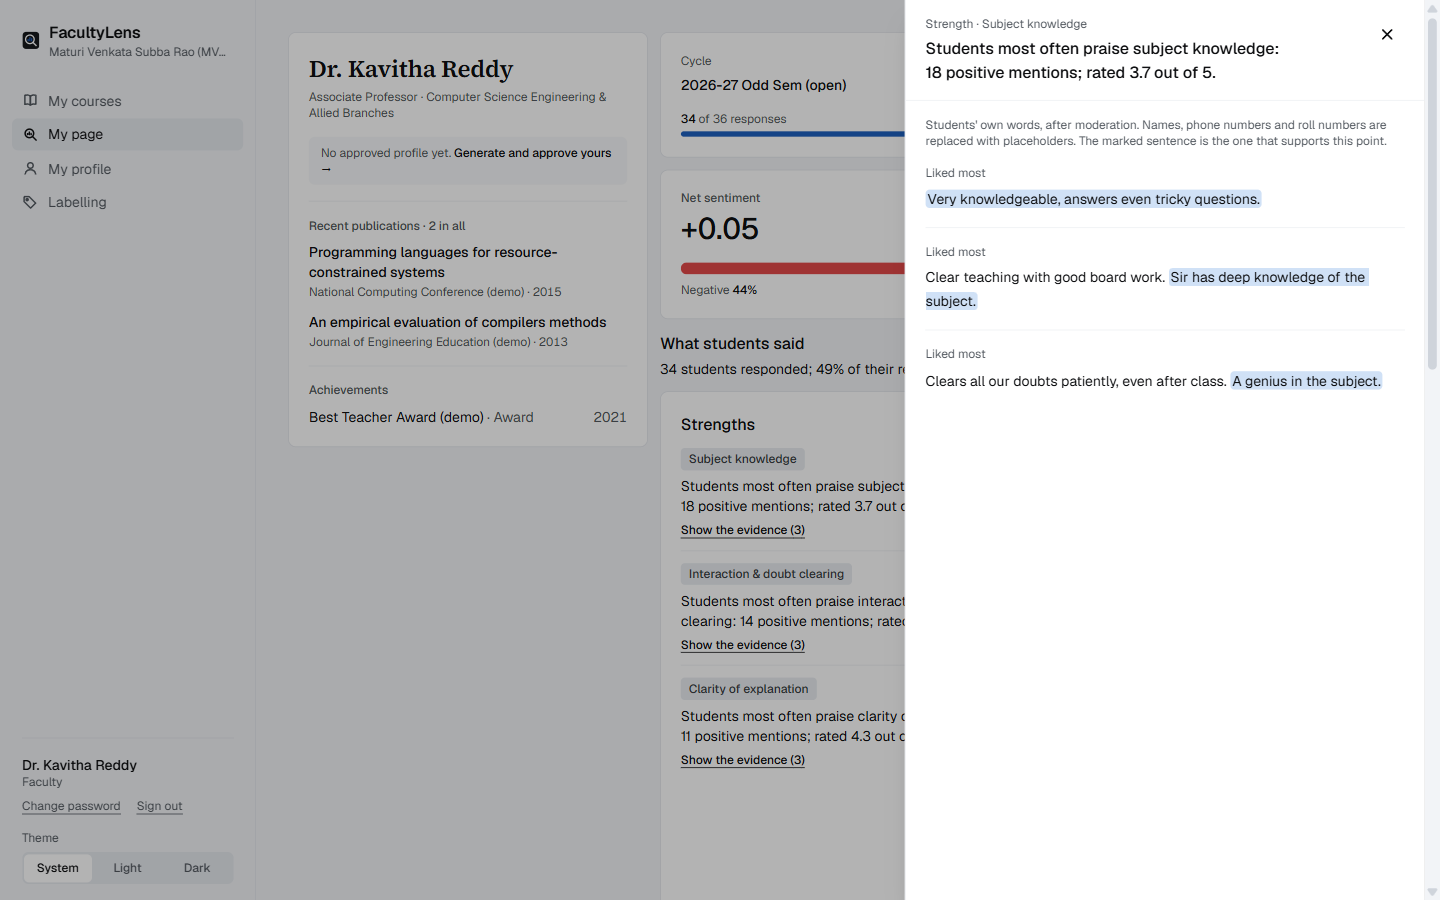
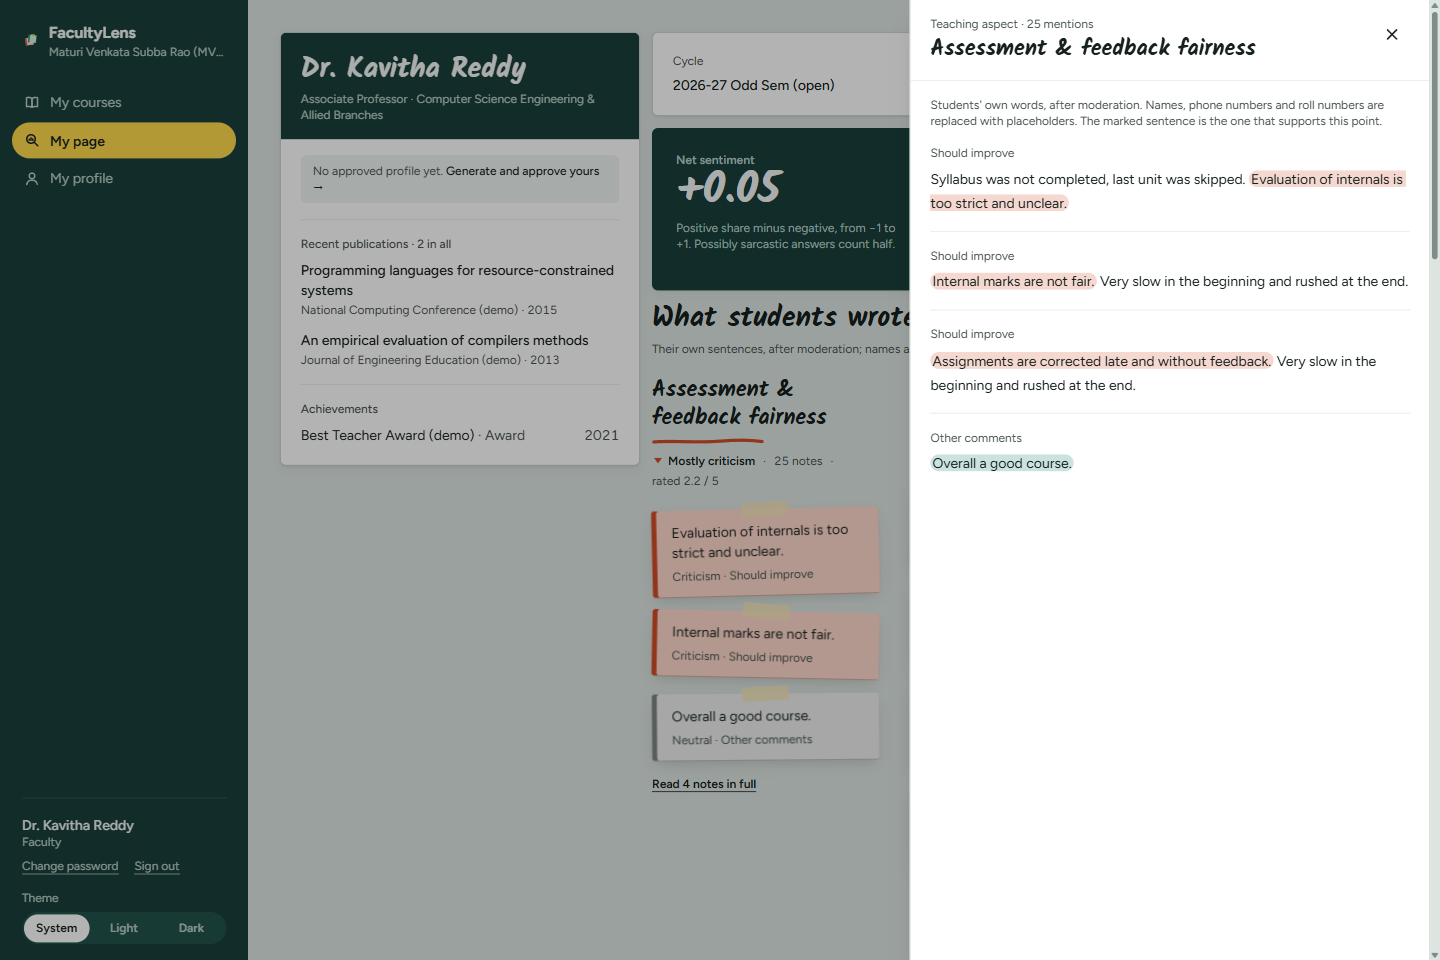
Redesign 4: DESIGN.md rewritten for the Affinity Wall, rail spans the page without a gradient, drawer highlights take each sentence's own tone, screenshots retaken (plus the IQAC home)

diff --git a/frontend/src/components/EvidenceDrawer.jsx b/frontend/src/components/EvidenceDrawer.jsx
@@ -88,7 +88,7 @@ export function EvidenceDrawer({ facultyId, request, onClose }) {
           <div className="flex items-start justify-between gap-4 border-b border-rule px-[var(--card-pad)] py-4">
             <div className="flex min-w-0 flex-col gap-1">
               <span className="text-small text-muted">{request.kicker}</span>
-              <h2 id="evidence-title" className="m-0 text-section font-medium">
+              <h2 id="evidence-title" className="m-0 font-marker text-[1.375rem] leading-7">
                 {request.title}
               </h2>
             </div>
@@ -128,7 +128,11 @@ export function EvidenceDrawer({ facultyId, request, onClose }) {
             ) : (
               <ul className="m-0 list-none p-0">
                 {state.items.map((item) => (
-                  <Answer key={item.id} item={item} tone={request.tone} />
+                  <Answer
+                    key={item.id}
+                    item={item}
+                    tone={request.toneFromItem ? item.sentiment : request.tone}
+                  />
                 ))}
               </ul>
             )}

diff --git a/frontend/src/components/AppShell.jsx b/frontend/src/components/AppShell.jsx
@@ -222,16 +222,18 @@ export function AppShell() {
       </a>
 
       {/* Desktop rail: the deep board beside the wall. */}
-      <aside className="sticky top-0 hidden h-dvh flex-col bg-board px-3 pt-5 pb-4 text-on-board lg:flex">
-        <div className="px-2.5 pb-6">
-          <Brand institution={institution} />
-        </div>
-        <nav aria-label="Main">
-          <NavItems items={nav} badges={badges} />
-        </nav>
-        <div className="mt-auto flex flex-col gap-4 px-2.5">
-          <Account />
-          <ThemeSwitch onBoard />
+      <aside className="hidden bg-board text-on-board lg:block">
+        <div className="sticky top-0 flex h-dvh flex-col px-3 pt-5 pb-4">
+          <div className="px-2.5 pb-6">
+            <Brand institution={institution} />
+          </div>
+          <nav aria-label="Main">
+            <NavItems items={nav} badges={badges} />
+          </nav>
+          <div className="mt-auto flex flex-col gap-4 px-2.5">
+            <Account />
+            <ThemeSwitch onBoard />
+          </div>
         </div>
       </aside>
 

diff --git a/frontend/src/pages/faculty/Wall.jsx b/frontend/src/pages/faculty/Wall.jsx
@@ -257,6 +257,7 @@ export function Wall({ facultyId, insights, onEvidence }) {
                 onEvidence({
                   ids: allIds,
                   tone,
+                  toneFromItem: true,
                   kicker: `Teaching aspect · ${a.mentions} mentions`,
                   title: a.label,
                 })

diff --git a/docs/DESIGN.md b/docs/DESIGN.md
@@ -1,81 +1,89 @@
 # FacultyLens design system
 
-Settled in Phase 0. Every later page reuses it. Tokens are in `frontend/src/styles/tokens.css` (raw values per theme) and mapped to Tailwind utilities in `frontend/src/styles/index.css` (`@theme inline`). Change values there, never inline in components.
+Redesigned on 2026-10-21 as the **Affinity Wall**, replacing the Phase 0 "achromatic ledger". Every page reuses it. Tokens are in `frontend/src/styles/tokens.css` (raw values per theme) and mapped to Tailwind utilities in `frontend/src/styles/index.css` (`@theme inline`). Change values there, never inline in components. The approved Figma file is [FacultyLens: Affinity Wall redesign](https://www.figma.com/design/3hl9JFkm5nwpkk5iwdjy7K) (variables, the Note / Button / NavItem / Pill components, and five screens).
 
 ## Direction
 
-**Calm academic, "achromatic ledger".** This style came from the design-taste-frontend app draw (`--kind analytics --style achromatic-ledger`, seed 1993640354), and it fits the user's "calm academic" choice. FacultyLens is a working tool for IQAC staff, HoDs and faculty, read in long sessions near NAAC deadlines. It should feel like a well-kept university register, not a SaaS dashboard.
+**Feedback is sorted the way researchers sort it by hand.** Every student comment is a paper note, clustered under the teaching aspect it talks about, with a marker heading that states the verdict. It was chosen through impeccable's direction round (seed `42001c6f43eb851a`, candidate 4) over a lens/highlighter and a metro direction, and it refuses the usual dashboard of white stat tiles and one big table.
 
-- **The chrome holds no colour.** Text and controls are ink; the primary action is near-black.
-- **Colour is for data and judgement only:** the one chart hue on the main data element, the sentiment pair on sentiment, and status pills where something is good or bad.
-- **Its face:** a blue-grey "ledger" ground (`#f2f4f7`) under white cards, and a serif used for one job: page titles (and later the faculty member's name on the unified page).
-- **Its signature element** (from Phase 5): the evidence link. Every strength or improvement opens the redacted sentences that support it, highlighted in place.
+- **The wall:** a pale sage ground (`#dde5e1`) under white paper cards.
+- **The board:** a deep green (`#183f3a`) carries the rail, page headers and summary strips, like the board the notes are pinned to.
+- **Notes:** tinted paper with a strip of tape, tilted a degree or two. Sentiment lives on the note's 5px left edge and in its words (Praise / Criticism / Neutral), never in colour alone.
+- **Highlighter yellow** (`#ffd84d`) is reserved for "where you are": the current nav item and the chosen rating.
+- **Its signature moment:** on load, notes fly in from scattered positions and settle into their clusters.
 
 ## Colour
 
 | Role | Light | Dark | Use |
 |---|---|---|---|
-| `--ground` | `#f2f4f7` | `#0b0b0c` | page and sidebar |
-| `--surface` | `#ffffff` | `#151516` | cards, tables |
-| `--raised` / `--active` | `#f7f8fa` / `#e6e9ee` | `#1c1c1e` / `#262628` | hover, active nav pill, skeletons |
-| `--border` / `--rule` / `--control` | `#e3e6eb` / `#eef0f3` / `#cfd4db` | `#2a2a2d` / `#202022` / `#46464a` | card edge / row rule / input border |
-| `--text` / `--muted` / `--faint` | `#0e0f11` / `#535960` / `#626870` | `#f4f4f5` / `#b4b4b8` / `#9a9aa0` | three text tiers, all ≥ 4.5:1 |
-| `--primary` | `#16181b` | `#f4f4f5` (inverted) | the one primary button |
-| `--chart-main` | `#1d5fbf` | `#3987e5` | the main series in any chart |
-| `--focus` | `#1d5fbf` | `#6ea3ec` | 2px focus ring, 2px offset |
+| `--ground` (wall) | `#dde5e1` | `#0e1816` | page |
+| `--surface` (paper) | `#ffffff` | `#16221f` | cards, tables, drawer |
+| `--raised` / `--active` | `#eef3f0` / `#cfdad5` | `#1c2a26` / `#26362f` | hover, next-step boxes, skeletons |
+| `--border` / `--rule` / `--control` | `#c3cfca` / `#e2e9e6` / `#7f8c88` | `#2a3a35` / `#21302b` / `#6c7d77` | card edge / row rule / input border (3.5:1) |
+| `--text` / `--muted` / `--faint` | `#16201e` / `#46524f` / `#56625f` | `#eef4f1` / `#adbeb8` / `#97aaa3` | three text tiers, all ≥ 4.5:1 on wall and paper |
+| `--board` / `--board-2` | `#183f3a` / `#22524b` | `#12302c` / `#1a413b` | rail, headers, summary strips; hover on the board |
+| `--on-board` / `--on-board-muted` | `#f3f7f5` / `#b8cec7` | `#eef4f1` / `#a9c4bc` | text on the board (10.7:1 / 7.0:1) |
+| `--note-praise` + `--edge-praise` | `#cdf1e5` + `#0f7f6c` | `#173b33` + `#3fbfa2` | praise notes |
+| `--note-criticism` + `--edge-criticism` | `#ffd8cc` + `#cf4b29` | `#3f241b` + `#f07a57` | criticism notes |
+| `--note-neutral` + `--edge-neutral` | `#eceeed` + `#7c8582` | `#252d2a` + `#8f9a96` | neutral notes, blank answer notes |
+| `--highlight` | `#ffd84d` | `#ffd84d` | "where you are" only, ink text on it |
+| `--tape` | `#f4e7b8` | `#5b5338` | the tape strip on notes |
+| `--primary` | `#16201e` | `#eef4f1` | the one primary button |
+| `--focus` | `#0b6b5b` | `#5fd0b8` | 2px ring; on the board it turns highlighter yellow |
 
-**Sentiment (diverging, never red/green):** positive `#2a78d6` / `#3987e5`, neutral `#8a8a8a` / `#a3a3a3`, negative `#e34948` / `#e66767`. Validated with the dataviz `validate_palette.js`. In light mode every adjacent pair passes CVD separation. Dark neutral was lifted to `#a3a3a3` so red↔grey clears the CVD threshold (8.1). The grey midpoint "fails" the chroma check on purpose, because neutral must read as no colour. **Rule:** sentiment marks always carry a text label or legend (positive / neutral / negative); colour never carries the meaning alone.
+**Sentiment in charts** follows the notes: positive `--sent-positive` (teal), negative `--sent-negative` (coral), neutral grey. Teal against coral differs in hue and lightness for the common colour-vision deficiencies, and every sentiment mark still carries a text label or legend. On the deep board the split bar uses the note papers (mint, peach, muted grey) because the edge colours vanish against the board green.
 
-**Status pills:** pale tint plus dark ink of the same hue (positive, negative, warning, neutral). They appear only inside rows or beside a value, never above a heading.
+**Two compared groups** (bias panel) keep the validated categorical blue/orange pair, so they are never read as praise and criticism.
 
-Theme: the OS setting by default. `<html data-theme="light|dark">` overrides it both ways (the sidebar's Theme switch, stored in `localStorage` as a per-viewer convenience). An inline script in `index.html` applies it before first paint.
+**Status pills:** pale tint plus dark ink of the same hue (positive, negative, warning, neutral), pill-shaped.
+
+All text pairs above were checked for WCAG AA in both themes when the tokens were generated. Theme: the OS setting by default; `<html data-theme="light|dark">` overrides it both ways (the rail's Theme switch, a per-viewer `localStorage` convenience applied before first paint).
 
 ## Type
 
-- **Geist Variable** (self-hosted via @fontsource, works offline) for everything.
-- **Source Serif 4 Variable** for page titles only.
+- **Figtree Variable** (self-hosted via @fontsource, works offline) for the interface.
+- **Kalam Bold** (self-hosted) for headings written on the wall: page titles (`.font-marker text-marker`, 28/34), cluster and column headings (22/28), the net-sentiment figure, and the sign-in promise.
 - Monospace (system `ui-monospace`) only for IDs and model keys.
-- Fixed rem scale, ratio ~1.2:
+- Fixed rem scale: `text-small` 12/16, `text-body` 14/20, `text-section` 16/24, `text-lead` 18/26, `text-title` 24/32, `text-marker` 28/34, `text-kpi` 30/36.
+- Weights 400 / 600 / 700. `.num` (tabular figures) on every number that lines up or updates.
+- Sentence case everywhere; no tracked uppercase labels, no eyebrow labels.
 
-| Token | Size / line | Use |
-|---|---|---|
-| `text-small` | 12 / 16 | labels, meta, table headers, pills |
-| `text-body` | 14 / 20 | body, nav, cells |
-| `text-section` | 16 / 24 | section headings (500) |
-| `text-lead` | 18 / 26 | values in a stat strip |
-| `text-title` | 24 / 32 | page title (serif 600, -0.01em) |
-| `text-kpi` | 30 / 36 | headline figures (max one per screen) |
+## Space, shape and depth
 
-- Weights: 400 / 500 / 600.
-- `.num` (tabular figures) on every number in a table, stat or anything that updates. Numbers are right-aligned in columns.
-- Sentence case everywhere; no tracked uppercase labels.
-
-## Space and shape
-
-- 4px base. One gap (`--gap` 12px) between sibling cards. Card padding 20px. Canvas padding 32px on desktop and 16px on a phone.
-- Content column max 1184px. Sections 40px apart.
-- Radius: cards 8px, controls 6px, chips 4px (the tight pair, chosen once).
-- Surfaces are separated by a 1px border **or** a tone step, never a shadow. Shadows only on what floats (menus, dialogs).
-- Stat strips are one card split by 1px dividers (implemented as a 1px grid gap over `--rule`), never a row of separate KPI tiles. No icons on KPIs and no sparklines.
+- 4px base. `--gap` 12px between sibling cards, card padding 20px, canvas padding 32px on desktop and 16px on a phone. Content column max 1184px.
+- Radius: paper 6px, notes 3px, inputs 6px; buttons, pills and nav items are full pills.
+- Depth is physical: paper sits on the wall with a short offset shadow (`--shadow-paper`), notes lift a little more (`--shadow-note`) and lift further on hover (`--shadow-lift`). No zero-offset glows, no gradients, no glass.
 
 ## Shell
 
-**Open plane.**
-- A 256px labelled sidebar on the page ground, one hairline to the canvas.
-- The product mark (a lens over three feedback bars, `components/Mark.jsx`), the name and the institution sit at the top; the theme switch sits at the bottom.
-- The active nav item is a neutral grey pill. Only screens that exist are listed.
-- There is no top bar on desktop.
-- **Below 1024px** the sidebar folds into a 48px top bar (mark, screen name, menu button) and a full-screen `<dialog>` sheet. Esc closes the sheet and focus returns to the trigger.
+- A 248px rail on the deep board: mark, name and institution at the top, the account and theme switch at the bottom. The current page is a highlighter-yellow pill; the moderation badge is a small peach pill with its count.
+- The mark (`components/Mark.jsx`, `public/mark.svg`) is two tilted notes, praise over criticism, taped to the board.
+- **Below 1024px** the rail folds into a 48px board-green top bar (mark, screen name, menu) and a full-screen `<dialog>` sheet; Esc closes it and focus returns to the trigger.
+- **Signed-out screens** (`StandaloneLayout`): the board on the left with the promise "Every comment, sorted and heard." and the privacy facts pinned as notes; the form on paper on the wall to the right. Phones stack them.
 
 ## Components (in `styles/index.css`)
 
-- `.btn` + `.btn-primary` (near-black), `.btn-secondary` (grey), `.btn-ghost`: 36px tall.
+- `.btn` + `.btn-primary` (ink), `.btn-secondary` (sage), `.btn-ghost`: 38px pill.
 - `.pill` + `.pill-positive|negative|warning|neutral`.
-- `.card`: white surface, 1px border, 8px radius.
-- `.skeleton`: a flat bar at the real size of the value it replaces, with no shimmer and no layout shift when data lands.
-- Tables: 12px grey sentence-case headers, 44px rows, 1px row rules, no zebra stripes and no header band. Below 768px a table becomes two-line rows (identity + status on line 1, detail on line 2). Tablet hides the least important columns.
+- `.card`: white paper, 1px border, 6px radius, paper shadow.
+- `.board`: the deep green strip for page headers and summaries.
+- `.note` + `.note-praise|criticism|neutral`: tinted paper, sentiment edge, tape, `--tilt`. `.note-lift` straightens and lifts it on hover.
+- `.here`: highlighter fill for "where you are".
+- `.skeleton`: a flat bar at the real size of the value it replaces, no shimmer.
+- Tables keep their Phase 1 rules (sentence-case headers, 44px rows, 1px rules, two-line rows on phones).
 
-## Phase 1 additions
+## The key screens
+
+- **Faculty My page** (`pages/faculty/FacultyPage.jsx`, `Wall.jsx`): profile on a board header at the left; cycle and course pickers; a board strip with net sentiment, the split bar, responses and the best-rated aspect; then **the wall**: one cluster per aspect students wrote about, ordered by how often, each with a Kalam heading, a marker stroke in the verdict colour, the verdict in words with a drawn ▲/▼ icon, the note and rating counts, and up to five real redacted sentences as notes (two praise, two criticism, one neutral). "Read n notes in full" opens the evidence drawer, where each answer's highlight takes its own sentiment's tint. Aspects nobody wrote about are listed in one line. The written summary, next steps and emotion panels follow.
+  - The API supplies note ids per aspect (`insights.aspects[k].note_ids`); the text still comes only from `/evidence`, so the moderation, redaction and minimum-response rules are unchanged.
+- **IQAC home** (`pages/admin/AdminHome.jsx`): the open cycle on a board header (responded, to moderate, analysed, actions approved), then its work sorted into four columns of task notes: Needs a decision, Ready to run, Waiting on people, Done. Every count comes from the cycles, analysis, moderation and NAAC status APIs.
+- **Student form**: the course on a board header, the 1–5 scale with the chosen rating in highlighter, and the free-text answers written on blank neutral notes.
+
+## History: page notes from Phases 1–8
+
+These notes describe how each page was laid out when it was built. Their structure still holds; where they name the old ledger colours, fonts or the grey active pill, the Affinity Wall tokens above now apply.
+
+### Phase 1 additions
 
 - **Forms** (`components/forms.jsx`):
   - The label sits above a 40px control (1px `--control` border, 6px radius, `--focus` ring); a hint or error goes underneath.
@@ -100,7 +108,7 @@ Theme: the OS setting by default. `<html data-theme="light|dark">` overrides it 
   - impeccable `detect`: no findings.
   - Signed-in screens checked through Playwright at 1440, 768 and 390.
 
-## Phase 2 additions
+### Phase 2 additions
 
 - **Review queue** (`pages/profile/ReviewPanel.jsx`):
   - A card above the page body whenever imports are pending. Its heading is the count ("35 imported items wait for your review").
@@ -122,7 +130,7 @@ Theme: the OS setting by default. `<html data-theme="light|dark">` overrides it 
   - `beforeunload` warns on unsaved edits.
 - **Two-column page:** `minmax(0,1fr) 360px`. The right rail (import, courses taught) comes first in the DOM, so on phones it sits above the long sections.
 
-## Phase 3 additions
+### Phase 3 additions
 
 - **Rating control** (`components/LikertScale.jsx`):
   - Five equal segments, each showing its number *and* word (Poor, Fair, Good, Very good, Excellent), so colour never carries the meaning.
@@ -141,7 +149,7 @@ Theme: the OS setting by default. `<html data-theme="light|dark">` overrides it 
   - It shows a grey dash when nothing is eligible, and is used for response rates everywhere.
 - **Cycle status:** pills read Draft (neutral), Open (positive), Closed (neutral). Publishing explains what it will create before the button, and why offerings are skipped.
 
-## Phase 4 additions
+### Phase 4 additions
 
 - **Analysis runner** (`pages/admin/AnalysisPage.jsx`):
   - The screen's question is "how much of this cycle is analysed, and what did it flag?".
@@ -160,7 +168,7 @@ Theme: the OS setting by default. `<html data-theme="light|dark">` overrides it 
   - Decided items show the decision pill, time and edited text.
 - **Nav count:** "Moderation 18" is a small surface chip on the nav row. It appears only when items are pending, refreshes after every decision (a window event) and each minute, and is read as "18 pending".
 
-## Phase 5 additions
+### Phase 5 additions
 
 - **Unified faculty page** (`pages/faculty/*`, `/me` and `/faculty/:id`):
   - Two columns: the profile (360px, sticky on desktop) and the feedback insights. They stack on tablets and phones, profile first.
@@ -193,7 +201,7 @@ Theme: the OS setting by default. `<html data-theme="light|dark">` overrides it 
   - Rejected AI claims are listed in a `--raised` note when the template was used instead.
 - **Code splitting:** the unified page and Recharts load as their own chunk (`React.lazy`), so other screens don't download the chart library.
 
-## Phase 6 additions
+### Phase 6 additions
 
 - **Department insights** (`/insights`, `pages/insights/*`, lazy-loaded):
   - HoDs see their own department and the title is its name; admins get a department picker.
@@ -217,7 +225,7 @@ Theme: the OS setting by default. `<html data-theme="light|dark">` overrides it 
   - **Method:** a "How these numbers are made" disclosure.
 - **My page:** "Across your courses" (only with two or more offerings in a cycle). Each course name selects that course below; an "All courses" line closes the table.
 
-## Phase 7 additions
+### Phase 7 additions
 
 - **NAAC report builder** (`/admin/reports`): the cycle picker, then "Draft action items" (secondary; its title says edited and approved rows are never overwritten). Below that are two columns:
   - **Left:** the Action Taken rows grouped by department in cards. Each card header shows "n of m approved" and a ghost "Add an action".
@@ -234,7 +242,7 @@ Theme: the OS setting by default. `<html data-theme="light|dark">` overrides it 
 - **HoD "Action taken" tab** on Department insights: one paragraph saying what the rows are for and how many still need approval, then the same table for their department.
 - **The printed report** keeps the app's restraint: DejaVu Sans, black ink, the sentiment trio and the single chart blue in the charts, light grey table headings, and the draft mark at 10% opacity across each page.
 
-## Phase 8 additions
+### Phase 8 additions
 
 - **Segmented choice** (`components/Segmented.jsx`): native radios in a labelled radiogroup, drawn as equal joined segments like the rating scale. The selected segment is the primary ink. A `quiet` value (a default such as "Not mentioned") is only a grey `--active` tone, so eight untouched rows don't shout.
 - **Labelling** (`/label`, only for accounts the admin marks as annotator or adjudicator; a nav item appears for them):
@@ -262,10 +270,10 @@ Theme: the OS setting by default. `<html data-theme="light|dark">` overrides it 
 
 ## Motion
 
-- Feedback only; nothing performs an entrance.
-- `--ease-out: cubic-bezier(0.23, 1, 0.32, 1)`. Press 140ms (`scale(0.97)` on `:active`), UI 180ms, sheet 240ms (rise 12px + fade via `@starting-style`).
-- Hover effects are gated behind `(hover: hover) and (pointer: fine)`.
-- `prefers-reduced-motion` drops travel and keeps state changes.
+- **One authored moment:** notes settle onto the wall. Each note starts from a scattered offset (`--dx`, `--dy`, `--r0`), slightly scaled down and transparent, and lands at its tilt in 400ms on the strong ease-out, staggered 40ms across the whole wall (`.settle`). The cluster's marker stroke draws itself as its notes land (`.marker-line`). It plays once per load: on the faculty page, the IQAC home board and the sign-in board.
+- Everything else is feedback, not entrance: `--ease-out: cubic-bezier(0.23, 1, 0.32, 1)`; press 140ms (`scale(0.97)` on `:active`), UI 180ms, the sheet and drawer 240ms from the edge they belong to (`@starting-style`).
+- Hover effects (note lift, button shadow) are gated behind `(hover: hover) and (pointer: fine)`. Keyboard-driven changes (labelling keys) never animate.
+- `prefers-reduced-motion`: notes arrive with a 150ms fade in place, no travel; the marker stroke is drawn already; transitions drop to 1ms.
 
 ## Charts (from Phase 5)
 
@@ -276,6 +284,8 @@ Recharts, styled to these tokens, never library defaults.
 - A crosshair tooltip on hover; a table view for accessibility; an empty chart draws its zero line with one sentence.
 
 ## Checks used
+
+- Affinity Wall (2026-10-21): token contrast pairs checked in both themes; every role's main screens visited in light and dark, at 1440 and 390, with no console errors; screenshots in `docs/screenshots` retaken. design-taste `lint --app` on the changed files: 0 FAIL; its shadow warnings are the paper and note depth this world chose (offset, soft blur) and the mono warning is the model-key token.
 
 - design-taste-frontend `lint.mjs --app` and `inspect.mjs --app`: 0 FAIL, 0 WARN at 1440/768/390 on the status page. Mono is used for model IDs only.
 - impeccable `detect`: no findings.

diff --git a/README.md b/README.md
@@ -15,6 +15,8 @@ Everything runs on a CPU, and offline once the models are downloaded.
 |---|---|---|
 | ![Faculty page](docs/screenshots/03-faculty-page.png) | ![Evidence drawer](docs/screenshots/04-evidence-drawer.png) | ![Bias panel](docs/screenshots/06-bias-panel.png) |
 
+The IQAC home board: ![IQAC home](docs/screenshots/14-admin-home.png)
+
 More screens are in [`docs/screenshots`](docs/screenshots). A 5-minute demo script is in [`docs/DEMO.md`](docs/DEMO.md). Requirements are in [`docs/SPEC.md`](docs/SPEC.md), the design system in [`docs/DESIGN.md`](docs/DESIGN.md), and measured model speed and memory in [`docs/MODEL_CHECK.md`](docs/MODEL_CHECK.md).
 
 > **Status:** all nine phases of SPEC §14 are built. The human-labelled parts of the evaluation are pending until the annotators label (see [Evaluation](#evaluation)).
